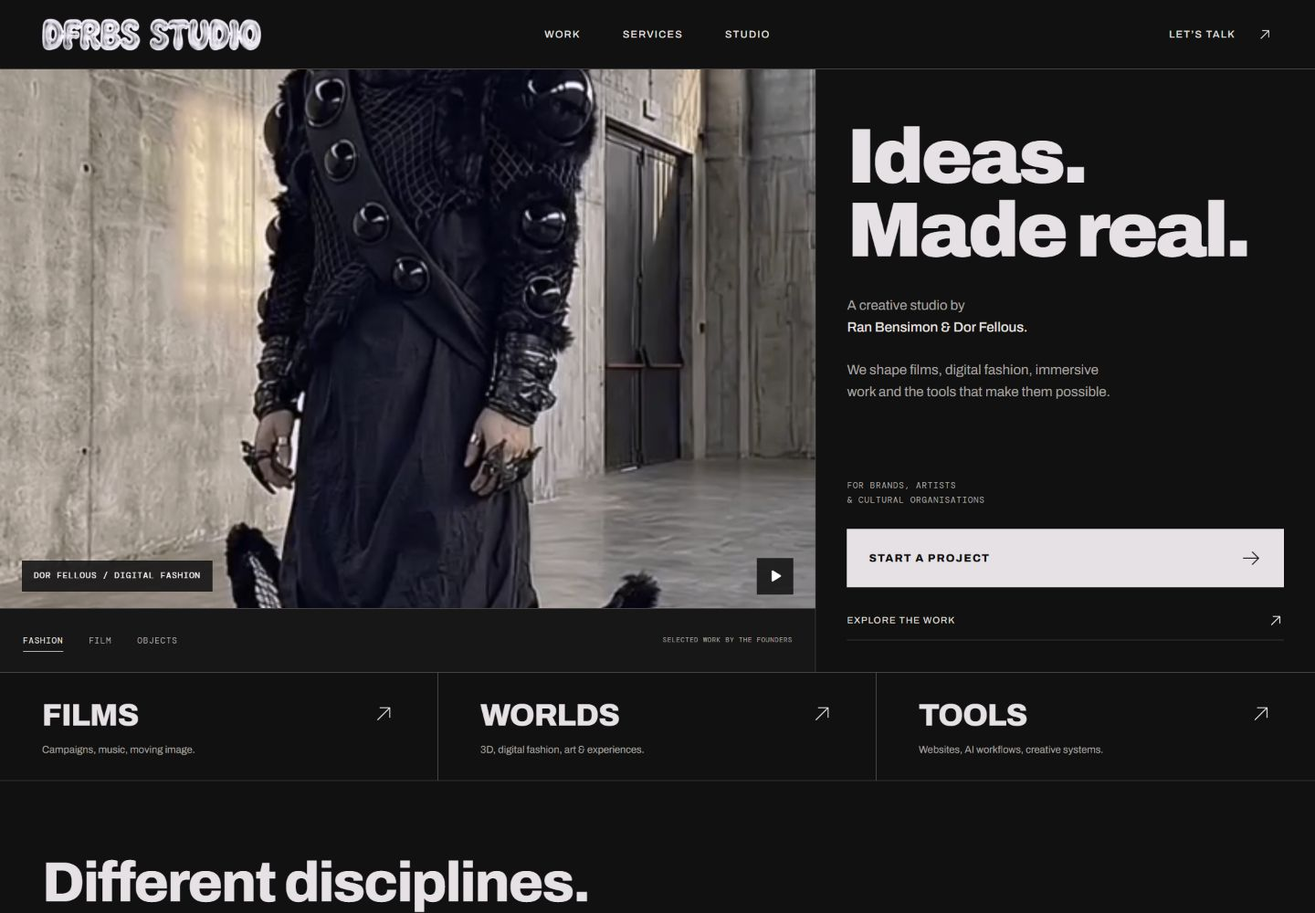
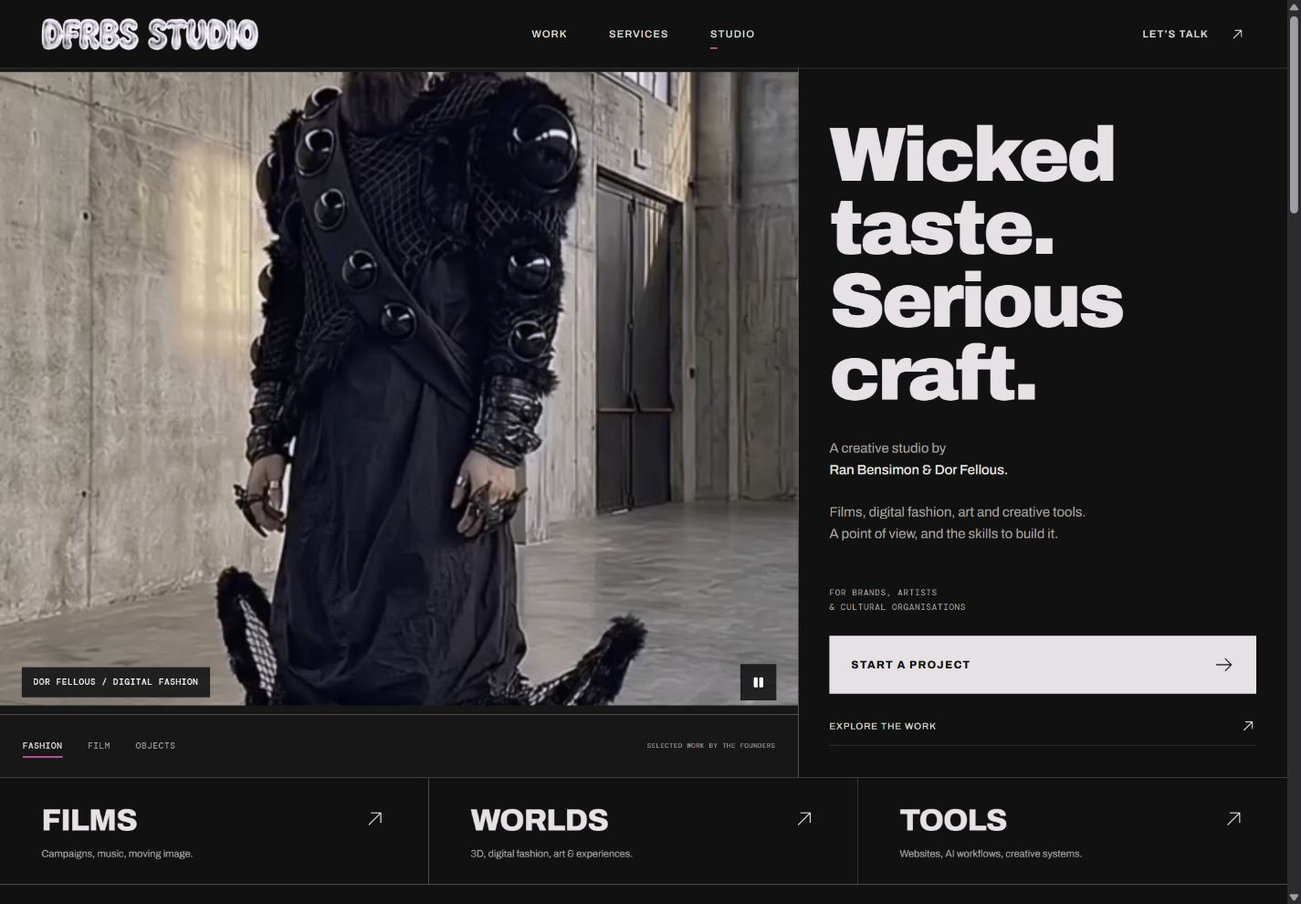
Give DFRBS Studio its black-room pink-fur spirit

diff --git a/src/StudioWebsite.jsx b/src/StudioWebsite.jsx
@@ -52,14 +52,14 @@ function Home({ onNavigate }) {
         <div className="studio-opening-tabs" role="group" aria-label="Explore our practice"><button type="button" aria-pressed={view === "fashion"} onClick={() => setView("fashion")}>FASHION</button><button type="button" aria-pressed={view === "film"} onClick={() => setView("film")}>FILM</button><button type="button" aria-pressed={view === "object"} onClick={() => setView("object")}>OBJECTS</button><span>SELECTED WORK BY THE FOUNDERS</span></div>
       </div>
       <div className="studio-opening-note">
-        <div className="studio-intro-copy"><h1 id="studio-main-title" tabIndex={-1}>Ideas.<br />Made real.</h1><p>A creative studio by<br /><strong>Ran Bensimon & Dor Fellous.</strong></p><p>We shape films, digital fashion, immersive work and the tools that make them possible.</p></div>
+        <div className="studio-intro-copy"><h1 id="studio-main-title" tabIndex={-1}>Wicked taste.<br />Serious craft.</h1><p>A creative studio by<br /><strong>Ran Bensimon & Dor Fellous.</strong></p><p>Films, digital fashion, art and creative tools. A point of view, and the skills to build it.</p></div>
         <div className="studio-intro-close"><span>FOR BRANDS, ARTISTS<br />& CULTURAL ORGANISATIONS</span><StudioLink to="contact" onNavigate={onNavigate} className="studio-primary-link">START A PROJECT <ArrowRight size={24} weight="light" /></StudioLink><StudioLink to="work" onNavigate={onNavigate} className="studio-text-link">EXPLORE THE WORK <ArrowUpRight size={18} /></StudioLink></div>
       </div>
     </section>
     <section className="studio-practice-index" aria-label="Explore studio services">{[{key:"film",title:"FILMS",description:"Campaigns, music, moving image."},{key:"3d",title:"WORLDS",description:"3D, digital fashion, art & experiences."},{key:"web",title:"TOOLS",description:"Websites, AI workflows, creative systems."}].map((entry) => <StudioLink to="services" options={{service:entry.key}} onNavigate={onNavigate} key={entry.key}><span>{entry.title}</span><p>{entry.description}</p><ArrowUpRight size={26} weight="light" /></StudioLink>)}</section>
-    <section className="studio-selected" aria-labelledby="selected-title"><div className="studio-section-heading"><h2 id="selected-title">Different disciplines.<br />One shared curiosity.</h2><StudioLink to="work" onNavigate={onNavigate} className="studio-text-link">ALL SELECTED WORK <ArrowUpRight size={20} /></StudioLink></div><p className="studio-credit-note">A selection from our individual practices, brought together as DFRBS Studio.</p><div className="studio-work-grid">{featured.map((project) => <WorkTile project={project} onNavigate={onNavigate} key={project.id} />)}</div></section>
+    <section className="studio-selected" aria-labelledby="selected-title"><div className="studio-section-heading"><h2 id="selected-title">A point of view.<br />The skills to back it.</h2><StudioLink to="work" onNavigate={onNavigate} className="studio-text-link">ALL SELECTED WORK <ArrowUpRight size={20} /></StudioLink></div><p className="studio-credit-note">A selection from our individual practices, brought together as DFRBS Studio.</p><div className="studio-work-grid">{featured.map((project) => <WorkTile project={project} onNavigate={onNavigate} key={project.id} />)}</div></section>
     <section className="studio-service-index" aria-labelledby="service-index-title"><div className="studio-section-heading"><h2 id="service-index-title">Bring us a brief.<br />Or the beginning of one.</h2><p>From a single visual to a complete production system, we shape the scope around what you need to make.</p></div><div>{SERVICES.map((service) => <StudioLink to="services" options={{service:service.key}} onNavigate={onNavigate} className="studio-service-row" key={service.key}><h3>{service.title}</h3><ArrowUpRight size={26} weight="light" /></StudioLink>)}</div></section>
-    <section className="studio-shared-practice"><h2>Artistic instincts.<br />Technical hands.</h2><div><p>Dor’s work moves through AI films, digital fashion and wearable art. Ran’s practice connects real-time 3D, generative AI and interactive systems.</p><p>At DFRBS Studio, we bring those approaches to the same table: develop the idea, find its visual language, build the means to produce it, and see it through.</p><StudioLink to="studio" onNavigate={onNavigate} className="studio-text-link">MEET THE STUDIO <ArrowUpRight size={20} /></StudioLink></div></section>
+    <section className="studio-shared-practice"><h2>High taste.<br />Low ceremony.</h2><div><p>Dor’s work moves through AI films, digital fashion and wearable art. Ran’s practice connects real-time 3D, generative AI and interactive systems.</p><p>We care about the image and everything it takes to make it: the direction, the pipeline, the edit, the code. We get specific, test the idea and see it through.</p><StudioLink to="studio" onNavigate={onNavigate} className="studio-text-link">MEET THE STUDIO <ArrowUpRight size={20} /></StudioLink></div></section>
     <ProjectClose onNavigate={onNavigate} />
   </>;
 }
@@ -84,12 +84,19 @@ function Project({ project, onNavigate, onOpenObject }) {
   return <><section className="studio-project-heading"><StudioLink to="work" onNavigate={onNavigate} className="studio-text-link">ALL WORK <ArrowUpRight size={18} /></StudioLink><h1 tabIndex={-1}>{project.title}</h1><div><span>{project.founder} / {project.category}</span><span>{project.year || "SELECTED WORK"}</span></div></section><section className={`studio-project-media ${project.type === "object" ? "is-object" : ""}`} aria-label="Project media">{playing && project.embedId ? <div className="studio-project-player"><iframe src={`https://www.youtube-nocookie.com/embed/${project.embedId}?autoplay=1`} title={project.title} allow="accelerometer; autoplay; encrypted-media; gyroscope; picture-in-picture" allowFullScreen /><button ref={closeRef} type="button" onClick={() => setPlaying(false)} aria-label="Close film"><X size={22} /></button></div> : project.video ? <video controls playsInline preload="metadata" poster={asset(project.image)} src={asset(project.video)} aria-label={project.title} /> : <><img src={asset(project.image)} alt={project.title} />{project.embedId && <button ref={watchRef} className="studio-project-watch" type="button" onClick={() => setPlaying(true)}><Play size={20} weight="fill" />WATCH FILM</button>}</>}</section><section className="studio-project-dossier"><div><h2>The work.</h2><p>{project.summary}</p>{project.note && <p className="studio-credit-note">{project.note}</p>}<a className="studio-text-link" href={project.source} target="_blank" rel="noopener noreferrer">ORIGINAL PROJECT & CREDITS <ArrowUpRight size={20} /></a>{project.watchUrl && <a className="studio-text-link" href={project.watchUrl} target="_blank" rel="noopener noreferrer">{project.type === "interactive" ? "OPEN EXPERIENCE" : "VIEW ORIGINAL WORK"}<ArrowUpRight size={20} /></a>}{project.playUrl && <a className="studio-text-link" href={project.playUrl} target="_blank" rel="noopener noreferrer">OPEN EXPERIENCE <ArrowUpRight size={20} /></a>}{project.repository && <a className="studio-text-link" href={project.repository} target="_blank" rel="noopener noreferrer">EXPLORE THE SOURCE <ArrowUpRight size={20} /></a>}{project.type === "object" && <a href={`${import.meta.env.BASE_URL}?object=001`} className="studio-text-link" onClick={(event) => { if (event.button === 0 && !event.ctrlKey && !event.metaKey && !event.shiftKey) { event.preventDefault(); onOpenObject("eyewear"); } }}>EXPLORE OBJECT 001 <ArrowRight size={20} /></a>}</div><dl><dt>PRACTICE</dt><dd>{project.founder}</dd><dt>ROLE</dt><dd>{project.role}</dd><dt>OUTPUT</dt><dd>{project.outputs.join(" · ")}</dd>{project.collaborators && <><dt>COLLABORATORS</dt><dd>{project.collaborators}</dd></>}{project.stack.length > 0 && <><dt>TOOLS & METHODS</dt><dd>{project.stack.join(" · ")}</dd></>}</dl></section><section className="studio-related-services"><h2>Have a related brief?</h2>{project.services.map((key) => { const service = SERVICES.find((entry) => entry.key === key); return service && <StudioLink to="contact" options={{service:key}} onNavigate={onNavigate} className="studio-text-link" key={key}>{service.title}<ArrowRight size={18} /></StudioLink>; })}</section></>;
 }
 
+function StudioAttitude() {
+  return <section className="studio-attitude" aria-labelledby="studio-attitude-title">
+    <figure className="studio-attitude-image"><img src={asset("studio/studio-daydream.webp")} alt="Imagined black and chrome studio with pink fur carpets and extravagant pink manicures" loading="lazy" /><figcaption>STUDIO DAYDREAM / CONCEPT IMAGE</figcaption></figure>
+    <div className="studio-attitude-copy"><h2 id="studio-attitude-title">Black room.<br />Pink fur.<br />Sharp minds.</h2><p>We half-joked about an all-black office, pink fur underfoot and impossibly long pink manicures. That is the mood: unapologetic taste, playful excess and a serious grasp of the tools.</p><p>We like making a statement. We care just as much about the decisions, the tests and the finishing that make it work.</p></div>
+  </section>;
+}
+
 function About({ onNavigate }) {
-  return <><section className="studio-page-intro"><h1 tabIndex={-1}>Two practices.<br />New possibilities.</h1><div><p>DFRBS Studio brings together Ran Bensimon and Dor Fellous to create across moving image, physical form and creative technology.</p><p>For brands, artists and cultural organisations with something to say — and the curiosity to find a different way to say it.</p></div></section><section className="studio-founders" aria-label="Meet the founders">{FOUNDERS.map((founder) => <article className="studio-founder" key={founder.name}><div className="studio-founder-image"><img src={asset(founder.name.startsWith("Ran") ? "studio/ran-bring-your-love.webp" : "studio/dor-fashion-07.jpeg")} alt={`Selected work by ${founder.name}`} loading="lazy" /></div><h2>{founder.name}</h2><p className="studio-founder-practice">{founder.role}</p><p>{founder.description}</p><a className="studio-text-link" href={founder.source} target="_blank" rel="noopener noreferrer">INDIVIDUAL PORTFOLIO <ArrowUpRight size={20} /></a></article>)}</section><section className="studio-how" aria-labelledby="how-title"><h2 id="how-title">The idea sets<br />the medium.</h2><div>{[{title:"Find the point.",body:"We start with the audience, the intention and the context. What needs to happen, and what should it feel like?"},{title:"Make the language.",body:"We develop visual directions and test the important unknowns early — through frames, prototypes, material studies or a technical pilot."},{title:"Build it properly.",body:"The agreed scope becomes a production plan. We bring direction, 3D, AI, coding and finishing together where the project needs them."},{title:"Leave something useful.",body:"We agree on the final formats and handover from the start: finished media, working code, documented workflows or assets your team can continue using."}].map((step) => <article key={step.title}><h3>{step.title}</h3><p>{step.body}</p></article>)}</div></section><section className="studio-principles"><p>GOOD IDEAS DESERVE<br />MORE THAN ONE WAY<br />TO EXIST.</p><span>FILM / FORM / CODE / CULTURE</span></section><ProjectClose onNavigate={onNavigate} /></>;
+  return <><section className="studio-page-intro"><h1 tabIndex={-1}>A studio<br />with nerve.</h1><div><p>DFRBS Studio brings together Ran Bensimon and Dor Fellous to create across moving image, physical form and creative technology.</p><p>We like an image with nerve, a form with presence and a tool that actually works. That’s where our practices meet.</p></div></section><StudioAttitude /><section className="studio-founders" aria-label="Meet the founders">{FOUNDERS.map((founder) => <article className="studio-founder" key={founder.name}><div className="studio-founder-image"><img src={asset(founder.name.startsWith("Ran") ? "studio/ran-bring-your-love.webp" : "studio/dor-fashion-07.jpeg")} alt={`Selected work by ${founder.name}`} loading="lazy" /></div><h2>{founder.name}</h2><p className="studio-founder-practice">{founder.role}</p><p>{founder.description}</p><a className="studio-text-link" href={founder.source} target="_blank" rel="noopener noreferrer">INDIVIDUAL PORTFOLIO <ArrowUpRight size={20} /></a></article>)}</section><section className="studio-how" aria-labelledby="how-title"><h2 id="how-title">The idea sets<br />the medium.</h2><div>{[{title:"Find the point.",body:"We start with the audience, the intention and the context. What needs to happen, and what should it feel like?"},{title:"Make the language.",body:"We develop visual directions and test the important unknowns early — through frames, prototypes, material studies or a technical pilot."},{title:"Build it properly.",body:"The agreed scope becomes a production plan. We bring direction, 3D, AI, coding and finishing together where the project needs them."},{title:"Leave something useful.",body:"We agree on the final formats and handover from the start: finished media, working code, documented workflows or assets your team can continue using."}].map((step) => <article key={step.title}><h3>{step.title}</h3><p>{step.body}</p></article>)}</div></section><section className="studio-principles"><p>LONG NAILS.<br />HIGH STANDARDS.</p><span>TASTE / TECHNIQUE / FOLLOW-THROUGH</span></section><ProjectClose onNavigate={onNavigate} /></>;
 }
 
 function ProjectClose({ onNavigate }) {
-  return <section className="studio-project-close"><h2>What are you<br />thinking about?</h2><div><p>A campaign, a world, a tool,<br />or something we haven’t named yet.</p><StudioLink to="contact" onNavigate={onNavigate} className="studio-primary-link">LET’S MAKE IT <ArrowRight size={26} weight="light" /></StudioLink></div></section>;
+  return <section className="studio-project-close"><h2>Bring the brief.<br />Bring the obsession.</h2><div><p>Tell us what you’re after.<br />We’ll be clear about what it takes.</p><StudioLink to="contact" onNavigate={onNavigate} className="studio-primary-link">LET’S MAKE IT <ArrowRight size={26} weight="light" /></StudioLink></div></section>;
 }
 
 export function StudioWebsite({ onOpenObject }) {

diff --git a/src/studioWebsite.css b/src/studioWebsite.css
@@ -1,12 +1,12 @@
-.studio-website { --studio-pad: clamp(20px,3.2vw,50px); background: #111; }
+.studio-website { --studio-pink: #ff5bbc; --studio-pad: clamp(20px,3.2vw,50px); background: #111; }
 .studio-site-header { min-height: 76px; display: grid; grid-template-columns: 1fr auto 1fr; align-items: center; gap: 50px; padding: 18px var(--studio-pad); border-bottom: 1px solid var(--rule); background: #111; position: sticky; top: 0; z-index: 25; }
 .studio-site-brand { width: 240px; }
 .studio-site-header nav { display: flex; align-items: center; gap: 46px; }
 .studio-site-header nav a, .studio-header-contact { font-size: 11px; font-weight: 500; letter-spacing: .12em; padding: 10px 0; position: relative; }
-.studio-site-header nav a::after { content: ""; position: absolute; left: 0; right: 0; bottom: 0; height: 1px; background: var(--paper); transform: scaleX(0); transform-origin: left; transition: transform .25s ease-out; }
+.studio-site-header nav a::after { content: ""; position: absolute; left: 0; right: 0; bottom: 0; height: 1px; background: var(--studio-pink); transform: scaleX(0); transform-origin: left; transition: transform .25s ease-out; }
 .studio-site-header nav a:hover::after, .studio-site-header nav a[aria-current="page"]::after { transform: scaleX(1); }
 .studio-header-contact { display: flex; gap: 24px; align-items: center; justify-self: end; }
-.studio-header-contact:hover { color: #fff; }
+.studio-header-contact:hover { color: var(--studio-pink); }
 .studio-opening { display: grid; grid-template-columns: 62% 38%; min-height: 660px; border-bottom: 1px solid var(--rule); }
 .studio-opening-plate { position: relative; min-width: 0; background: #171717; display: flex; flex-direction: column; }
 .studio-opening-media { position: relative; flex: 1; min-height: 590px; overflow: hidden; animation: plate-open .8s cubic-bezier(.16,1,.3,1); }
@@ -19,7 +19,7 @@
 .studio-opening-tabs { padding: 22px 25px; min-height: 69px; display: flex; gap: 28px; align-items: center; justify-content: start; border-top: 1px solid var(--rule); }
 .studio-opening-tabs button { padding: 7px 0; font: 9px var(--mono); letter-spacing: .1em; color: var(--muted); position: relative; }
 .studio-opening-tabs button[aria-pressed="true"] { color: var(--paper); }
-.studio-opening-tabs button[aria-pressed="true"]::after { content:""; position:absolute; bottom:0; left:0; width:100%; height:1px; background:var(--paper); }
+.studio-opening-tabs button[aria-pressed="true"]::after { content:""; position:absolute; bottom:0; left:0; width:100%; height:1px; background:var(--studio-pink); }
 .studio-opening-tabs > span { margin-left: auto; font: 7px/1.7 var(--mono); letter-spacing: .1em; color: var(--muted); text-align: right; }
 .studio-opening-note { border-left: 1px solid var(--rule); padding: 55px 34px 35px; display: flex; flex-direction: column; justify-content: space-between; gap: 45px; }
 .studio-intro-copy h1 { font-size: clamp(50px,5.9vw,95px); letter-spacing: -.04em; line-height: .95; font-weight: 900; }
@@ -118,7 +118,7 @@
 .studio-how p { font-size: 14px; line-height: 1.8; color: var(--muted); max-width: 57ch; }
 .studio-principles { padding: 90px var(--studio-pad); border-bottom: 1px solid var(--rule); }
 .studio-principles p { font-size: clamp(38px,6.5vw,96px); line-height: .99; letter-spacing: -.035em; font-weight: 900; }
-.studio-principles span { display: block; margin-top: 40px; font: 10px var(--mono); color: var(--muted); letter-spacing: .12em; }
+.studio-principles span { color: var(--studio-pink); display: block; margin-top: 40px; font: 10px var(--mono); letter-spacing: .12em; }
 .studio-site-footer { padding: 45px var(--studio-pad) 30px; }
 .studio-footer-main { display: flex; justify-content: space-between; align-items: center; gap: 25px; padding-bottom: 38px; }
 .studio-footer-main img { width: 280px; }
@@ -216,7 +216,7 @@
   .studio-how p { font-size: 13px; }
   .studio-principles { padding: 48px 20px; }
   .studio-principles p { font-size: 10.6vw; }
-  .studio-principles span { margin-top: 25px; font-size: 8px; }
+  .studio-principles span { color: var(--studio-pink); margin-top: 25px; font-size: 8px; }
   .studio-site-footer { padding: 35px 20px 25px; }
   .studio-footer-main { display: block; padding-bottom: 28px; }
   .studio-footer-main img { width: 210px; }
@@ -224,4 +224,23 @@
   .studio-footer-bottom { display: grid; gap: 25px; font-size: 7px; }
   .studio-footer-bottom nav { gap: 23px; }
   .studio-footer-bottom small { font-size: 7px; }
+}
+
+/* The founder's black-room / pink-fur spirit: precise pink marks, conceptual imagery. */
+.studio-attitude { display: grid; grid-template-columns: 56% 44%; border-bottom: 1px solid var(--rule); }
+.studio-attitude-image { position: relative; min-width: 0; display: flex; align-items: center; background: #151515; }
+.studio-attitude-image img { width: 100%; }
+.studio-attitude-image figcaption { position: absolute; left: 24px; bottom: 24px; padding: 10px 13px; background: #111e; color: var(--paper); font: 10px/1.5 var(--mono); letter-spacing: .08em; }
+.studio-attitude-copy { padding: 50px var(--studio-pad); border-left: 1px solid var(--rule); align-self: center; }
+.studio-attitude-copy h2 { font-size: clamp(38px,4.2vw,62px); font-weight: 800; letter-spacing: -.03em; line-height: 1.03; }
+.studio-attitude-copy p { margin-top: 26px; max-width: 42ch; font-size: 15px; line-height: 1.8; color: var(--muted); }
+.studio-attitude-copy p + p { margin-top: 18px; }
+.studio-website .studio-text-link:hover, .studio-website .studio-service-row:hover, .studio-site-footer a:hover { color: var(--studio-pink); }
+.studio-work-filters a[aria-current] { border-color: var(--studio-pink); }
+@media (max-width: 740px) {
+  .studio-attitude { grid-template-columns: 1fr; }
+  .studio-attitude-image figcaption { left: 20px; bottom: 16px; font-size: 8px; padding: 8px 10px; }
+  .studio-attitude-copy { padding: 35px 20px 48px; border-left: 0; border-top: 1px solid var(--rule); }
+  .studio-attitude-copy h2 { font-size: 12vw; }
+  .studio-attitude-copy p { font-size: 14px; }
 }

diff --git a/src/StudioPage.jsx b/src/StudioPage.jsx
@@ -36,11 +36,11 @@ export function StudioPage({ onChange }) {
         <figure className="studio-office-plate">
           <img
             src={asset("studio-office-v1.png")}
-            alt="DFRBS Studio team working in the black and hot-pink production studio"
+            alt="Imagined black and hot-pink studio with pink fur carpets and extravagant manicures"
             fetchPriority="high"
           />
           <figcaption>
-            <span>DFRBS STUDIO</span>
+            <span>STUDIO DAYDREAM / CONCEPT IMAGE</span>
             <span>000 / RIGHT NOW</span>
           </figcaption>
         </figure>
@@ -50,10 +50,10 @@ export function StudioPage({ onChange }) {
         <figure className="studio-boardroom-plate">
           <img
             src={asset("studio-boardroom-v1.png")}
-            alt="Alien-forward DFRBS Studio team in a creative production meeting"
+            alt="Imagined alien-forward creative studio meeting"
             loading="lazy"
           />
-          <figcaption>2026—2040 / RIGHT NOW</figcaption>
+          <figcaption>CONCEPT IMAGE / 2026—2040 / RIGHT NOW</figcaption>
         </figure>
         <div className="studio-boardroom-copy">
           <h2 id="studio-boardroom-title">A SHARP STUDIO CAPABLE OF EVERYTHING.</h2>

diff --git a/index.html b/index.html
@@ -10,8 +10,8 @@
   <body>
     <!--
     THESIS: Authored images and working creative systems share one studio; projects prove the offer.
-    OWN-WORLD: Charcoal, pearl, chrome wordmark, Archivo, flat rectangular actions and drawer seams. Genuine founder work supplies the colour.
-    STORY: Meet Ran and Dor, explore individually credited work, choose a service, prepare a project brief.
+    OWN-WORLD: Charcoal, pearl, chrome wordmark, Archivo, precise pink accents, flat rectangular actions and drawer seams. Genuine founder work supplies the colour; the labelled black-room/pink-fur daydream expresses the studio attitude.
+    STORY: Wicked taste and serious craft. Meet Ran and Dor, explore individually credited work, choose a service, prepare a project brief.
     FIRST VIEWPORT: Desktop moving-image plate occupies 62%; studio introduction and project action occupy 38%. Mobile leads with identity and action, followed by the media plate.
     FORM: User-pinned Open drawer composition 2, expanded into a joint studio website; approval 2026-10-05, inherited-world key dfrbs-open-drawer-2.
     FINISH: unreviewed and undocumented is unfinished; this build ends with the finish review, the verdict, and DESIGN.md

diff --git a/DESIGN.md b/DESIGN.md
@@ -7,6 +7,7 @@ colors:
   muted: "#a7a59f"
   seam: "#53534f"
   heat: "#fa7a25"
+  studio-pink: "#ff5bbc"
   white: "#fff"
   inspection: "#141414"
   drawer: "#151515"
@@ -166,16 +167,17 @@ components:
 
 **Creative North Star: "The open studio drawer"**
 
-Authored images and working creative systems share one studio. Charcoal, pearl, the supplied chrome wordmark and strong Archivo type create a restrained frame for the actual work of Ran Bensimon and Dor Fellous. Colour comes primarily from the work itself; flat artifact plates, fine drawer seams and rectangular actions carry the interface.
+Authored images and working creative systems share one studio. Charcoal, pearl, the supplied chrome wordmark and strong Archivo type create a restrained frame for the actual work of Ran Bensimon and Dor Fellous. Colour comes primarily from the work itself; flat artifact plates, fine drawer seams and rectangular actions carry the interface. The studio has nerve: confident taste, queer/fashion wit and playful excess backed by serious craft. Small pink marks express that attitude within the charcoal/chrome frame.
 
-This is the built system after the approved Open drawer composition 2 reinvention and its expansion into a complete joint creative studio. It replaces the earlier campaign refinement. The homepage introduces the practice, work pages foreground individually credited artifacts, services disclose their scope in drawers, and the project brief uses a quieter form layout. Shared materials and controls connect those surfaces; their composition follows their purpose.
+This is the built system after the approved Open drawer composition 2 reinvention and its expansion into a complete joint creative studio. It replaces the earlier campaign refinement. The homepage introduces the practice, work pages foreground individually credited artifacts, services disclose their scope in drawers, and the project brief uses a quieter form layout. Shared materials and controls connect those surfaces; their composition follows their purpose. The user's imagined black office, pink fur and extravagant long pink manicures supply the cultural spirit. “Wicked taste. Serious craft.” introduces the practice; “Long nails. High standards.” states its conviction. The office appears as a labelled daydream concept, with no claim about current premises or staff.
 
-The source of truth is [atelier.css](src/atelier.css), [studioWebsite.css](src/studioWebsite.css), [services.css](src/services.css), [inquiry.css](src/inquiry.css), [studio.css](src/studio.css) and the matching JSX. [PRODUCT.md](PRODUCT.md), the body contract in [index.html](index.html) and the [complete-studio specification](docs/superpowers/specs/2026-10-05-complete-studio.md) establish the approved scope. The object authority is [Open drawer composition 2](.impeccable/mocks/reinvention-comp-2.png). Tokens above record implemented values; the sidecar carries extensions and preview snippets. Its generated tonal ramps are preview metadata, not additional implemented palette steps.
+The source of truth is [atelier.css](src/atelier.css), [studioWebsite.css](src/studioWebsite.css), [services.css](src/services.css), [inquiry.css](src/inquiry.css), [studio.css](src/studio.css) and the matching JSX. [PRODUCT.md](PRODUCT.md), the body contract in [index.html](index.html) and the [complete-studio specification](docs/superpowers/specs/2026-10-05-complete-studio.md) establish the approved scope; the [studio-spirit clarification](docs/superpowers/specs/2026-10-05-studio-spirit.md) records the later voice and accent refinement. The object authority is [Open drawer composition 2](.impeccable/mocks/reinvention-comp-2.png). Tokens above record implemented values; the sidecar carries extensions and preview snippets. Its generated tonal ramps are preview metadata, not additional implemented palette steps.
 
 **Key Characteristics:**
 
 - Authored founder imagery and films lead.
-- Charcoal, pearl and chrome form the shared material language.
+- Charcoal, pearl and chrome form the shared material language, with small pink active/hover marks.
+- Confident taste and playful excess are backed by specific decisions, tests and finishing.
 - Archivo provides expressive headings and readable prose; DM Mono handles compact indexes and technical captions.
 - Artifact plates, ruled rows and native drawers replace rounded cards.
 - Rectangular pale actions remain easy to find beside large images.
@@ -183,12 +185,16 @@ The source of truth is [atelier.css](src/atelier.css), [studioWebsite.css](src/s
 
 ## Colors
 
-The palette is a warm neutral range with a small HEAT accent. The frontmatter preserves the CSS source notation.
+The palette is a warm neutral range with small Studio Pink marks in the wider site and the established HEAT accent in the object archive. The frontmatter preserves the CSS source notation.
 
 ### Primary
 
-- **Pearl:** Primary reading colour, selected navigation marks and pale filled actions. On filled actions, Charcoal becomes the text colour.
+- **Pearl:** Primary reading colour, selected object-view marks and pale filled actions. On filled actions, Charcoal becomes the text colour.
 - **HEAT:** The warm orange accent used on selected object thumbnails and names, plus the object detail action on hover. It stays local to those states rather than becoming a general studio call-to-action colour.
+
+### Secondary
+
+- **Studio Pink:** The scoped `--studio-pink` accent on wider-studio navigation and preview-selector underlines, active work-filter rules, contact/text/service/footer link hover, and the manifesto caption. It does not recolour object controls or filled primary actions.
 
 ### Neutral
 
@@ -205,6 +211,8 @@ The palette is a warm neutral range with a small HEAT accent. The frontmatter pr
 - **Inquiry Error:** Inline validation messages, error summary and invalid field underline. Errors retain text and semantic state as well as colour.
 
 **The Restrained Heat Rule.** HEAT belongs to product imagery and small object-selection states. Keep broad interface backgrounds neutral.
+
+**The Precise Pink Rule.** Use Studio Pink for small studio active and hover marks. Keep the interface's broad surfaces charcoal and pearl; pink fur belongs to the labelled concept image.
 
 ## Typography
 
@@ -235,7 +243,7 @@ The system uses full-width sections and asymmetrical grids separated by one-pixe
 | Work archive | Page introduction, horizontal underlined filters, then a two-column artifact grid with separate image and credit metadata. |
 | Project dossier | Wide contained media, then a 1.25fr / 1fr explanation-and-credit grid. Embedded film players use 16:9. |
 | Services | A 1.35fr / 1fr introduction, six numbered native disclosure drawers, and expanded scope/delivery columns at 1.45fr / 1fr. |
-| Joint studio | Two founder work-image/profile columns, followed by a 1fr / 1.15fr process section and a large typographic statement. These are work images, not founder portraits. |
+| Joint studio | A 56% / 44% concept-image/attitude plate, then two founder work-image/profile columns, a 1fr / 1.15fr process section and a large typographic statement. These are work images, not founder portraits. |
 | Project brief | A 1.25fr / .75fr introduction, then a narrow supporting aside beside a broad form at .7fr / 1.6fr. Paired fields use two columns; the reviewed brief follows the form. |
 | Objects 001 / 002 | A 67.2% inspection plate and 32.8% order slip, minimum height 690px. Cabinet rows provide onward navigation; campaign chapters use their own split grids. |
 | Archived studio 000 | Statement/office plate at 1.6fr / 1fr; boardroom/copy at 1.85fr / 1fr. It retains its office and boardroom imagery within the current material world. |
@@ -249,6 +257,7 @@ The wide studio header is sticky, minimum height 76px, with brand, navigation an
 | 1080px and below | Service drawer number/title/copy columns tighten and expanded content indents reduce. |
 | 1050px and below | Inquiry and archived studio layouts tighten independently. The inquiry submit row becomes vertical. |
 | 760px and below | Headers become two rows with visible navigation. Homepage identity/action comes before its media plate. Work and founder grids, dossiers, service content and brief fields become single-column. Inquiry aside comes before the form. Object inspection comes before ordering; the order photograph follows the controls. Gutters are predominantly 20px. |
+| 740px and below | Studio daydream plate stacks; its copy loses the left seam and gains a top seam. |
 | 360px and below | Object header and cabinet gutters become 14px and archive labels tighten. |
 
 Mobile archive filters scroll horizontally; their work count hides. Homepage metadata in the selector rail hides. Object cabinet imagery and notes hide while the numbered destination remains. Object inspection height uses `clamp(360px, 100vw, 580px)`; homepage fashion media has a taller mobile plate than its film/object alternatives. These are surface-specific behaviours, not one shared hero preset.
@@ -279,19 +288,25 @@ Pale rectangular actions anchor the next step without competing with authored im
 - **Object purchase:** Full-width pale action; confirmation changes to Added and a check icon, with a polite live status. Mobile minimum height is 56px.
 - **Service action:** Compact DM Mono copy, a 54px minimum height and a wide arrow gap. The matching secondary action is transparent with a bottom seam.
 - **Inquiry action:** Readable mixed-case Archivo, 58px minimum height, 17px / 22px padding. On mobile it spans the form and uses 56px minimum height.
-- **Text links:** Transparent, square, underlined by a straight seam, with small directional icons. Hover brightens the rule or text.
+- **Text links:** Transparent, square, underlined by a straight seam, with small directional icons. Wider-studio text links hover in Studio Pink while their rule brightens to Pearl; object and service-page links retain their own established states.
 
 ### Navigation and filters
 
-The supplied wordmark anchors the sticky header. Wider studio navigation uses Archivo at the navigation token; numbered object navigation uses mono. Active routes and hover reveal a one-pixel underline. Both headers keep their navigation visible on a second mobile row.
+The supplied wordmark anchors the sticky header. Wider studio navigation uses Archivo at the navigation token; numbered object navigation uses mono. Active routes and hover reveal a one-pixel Studio Pink underline in the wider site; object navigation retains Pearl. Both headers keep their navigation visible on a second mobile row.
 
-Work filters are text links with an active bottom rule and `aria-current`. They scroll horizontally on mobile. They are not filled chips. Navigation preserves query links and browser history; route changes move focus to the page heading without adding a visible heading outline.
+Work filters are text links with an active Studio Pink bottom rule and `aria-current`. They scroll horizontally on mobile. They are not filled chips. Navigation preserves query links and browser history; route changes move focus to the page heading without adding a visible heading outline.
 
 ### Artifact plates and work tiles
 
 Work tiles have an image plate, a square bottom-right arrow tab and a separate title/individual-credit row. There is no enclosing card border, rounding or shadow. Desktop image aspect ratio is 1.45, mobile 1.2. Editorial images cover; object images contain. Hover image scale is 1.035, so the artifact remains the dominant content.
 
 Project media uses contained fit, bounded by its actual dimensions rather than forcing every work into an archive crop. Founder profile images are selected work with descriptive alt text and individual portfolio links.
+
+### Studio daydream and manifesto
+
+The StudioAttitude plate pairs the supplied [studio daydream image](public/assets/studio/studio-daydream.webp) with “Black room. Pink fur. Sharp minds.” Its caption explicitly reads “STUDIO DAYDREAM / CONCEPT IMAGE”. The image follows its natural proportions at full column width. A dark square caption overlay (`#111e`) uses DM Mono; copy sits beyond a straight vertical seam, with 15px / 1.8 body text capped at 42ch.
+
+This plate communicates imagined black-office / pink-fur / long-manicure spirit, not current premises, staff or a dress code. Mobile stacks the plate at 740px, moves the seam above the copy and uses 14px body text. The closing Archivo manifesto reads “LONG NAILS. HIGH STANDARDS.” with compact mono support. Its support caption uses Studio Pink on desktop and mobile.
 
 ### Service drawers
 
@@ -332,6 +347,7 @@ A global reduced-motion rule removes all animations/transitions and uses immedia
 - **Do** reuse the supplied wordmark, authored founder work, campaign films and accurate object assets.
 - **Do** use charcoal/pearl surfaces, square actions and straight seams as the shared interface language.
 - **Do** retain the separate individual-credit metadata beside portfolio imagery.
+- **Do** label the studio daydream as a concept image and keep taste-and-craft voice distinct from plain navigation, service scope and form instructions.
 - **Do** adapt layout to the surface: image archive, credited dossier, service drawer or reviewable brief.
 - **Do** preserve contained artifact/project-media fitting and deliberate editorial cropping.
 - **Do** retain native controls, visible focus, keyboard selection, focus-managed dialogs and reduced-motion behaviour.
@@ -339,8 +355,9 @@ A global reduced-motion rule removes all animations/transitions and uses immedia
 ### Don't:
 
 - **Don't** bring back the discarded Bebas Neue / IBM Plex Mono campaign identity.
-- **Don't** introduce rounded cards, pill filters, broad HEAT backgrounds or decorative interface gradients.
+- **Don't** introduce rounded cards, pill filters, broad HEAT or Studio Pink backgrounds, or decorative interface gradients.
 - **Don't** turn the homepage's 62% / 38% split into a mandatory layout for every page.
 - **Don't** stretch, redraw or crop away defining object anatomy.
 - **Don't** substitute stock imagery or describe selected-work images as founder portraits.
+- **Don't** describe the studio daydream as actual premises, staff or a dress code.
 - **Don't** present local brief preparation or the object bag as completed server submission, payment or inventory.

diff --git a/AGENTS.md b/AGENTS.md
@@ -10,6 +10,9 @@ Build app UI in `src/`. Keep `.openai/hosting.json`, `worker/index.js`, `scripts
 
 ## DFRBS prototype decisions
 
+- The collaborator clarified the studio's spirit: an imagined all-black office, pink fur carpets, black clothing and extravagant pink manicures; “confident bitches” who know their craft and do not mess around. Treat this as attitude and creative culture, never a claim about current premises, staff or a dress code. Preserve wit, queer/fashion sensibility, strong taste and technical competence. Let project evidence earn the confidence, and keep client-facing actions and form messages clear and welcoming.
+- The wider studio may use precise hot-pink accents alongside black and chrome, authorised by this brand clarification. Pink appears in small active/hover marks and conceptual studio imagery. It does not replace the HEAT product palette or become a large page background. The black/pink concept image is explicitly labelled “Studio daydream / concept image.”
+
 - On October 5, 2026, the collaborator expanded the objective from an object campaign to a complete creative studio website for Ran Bensimon and Dor Fellous. The confirmed name is **DFRBS Studio** and the primary audience is **brands, artists and cultural organisations**. This is the current scope.
 - The bare root is now the full studio homepage. Persistent navigation leads to Work, Services, Studio and a project inquiry. Earlier objects remain shareable at `?object=000`, `001` and `002`, reachable through the Object Archive footer link and the eyewear project. This supersedes the former requirement that the bare root be an object cabinet.
 - Present six proposed offers: films and campaigns, 3D and digital fashion, websites and creative tools, AI production workflows, art and experiences, workshops and team training. Explain client outcomes before tool names. “Vibe coding” is described to clients as websites, interactive experiences and creative tools.

diff --git a/docs/MEDIA-SOURCES.md b/docs/MEDIA-SOURCES.md
@@ -18,7 +18,9 @@ Portfolio images and films are from the two founders’ public portfolios, as su
 
 The Dor fashion film was encoded for web delivery with H.264 CRF 22, AAC 128k and fast-start metadata. The original 512 × 736 frame, aspect ratio, 14.633-second duration and audio were retained. The shipped file is approximately 2.77 MB, down from 7.70 MB.
 
-The object campaign, transparent eyewear images, lighter media, wordmark and archive studio images are preserved supplied repository assets. Archive office/boardroom images are conceptual studio imagery; the joint studio’s About page uses actual founder work rather than claiming these depict current premises.
+The object campaign, transparent eyewear images, lighter media, wordmark and archive studio images are preserved supplied repository assets. Archive office/boardroom images are conceptual studio imagery. Both the joint About page and archive label these as concepts, with alt text describing imagined scenes rather than current premises or employees.
+
+`public/assets/studio/studio-daydream.webp` is a quality-86 WebP conversion of the supplied `public/assets/studio-office-v1.png`, preserving the complete 1536 × 1024 image without resizing or cropping. Its visible “STUDIO DAYDREAM / CONCEPT IMAGE” caption identifies the founders’ black-office, pink-fur and long-manicure idea as brand spirit.
 
 `public/assets/atelier-graphite.webp` is generated non-semantic material: a fine dark table texture, with no objects, words or marks. Generation provenance and prompt are recorded in `.impeccable/asset-manifest.json` and the asset’s JSON sidecar. Its native 1448 × 1086 output was preserved, then encoded as quality-84 WebP (~108 KB). Semantic text, numerals, controls and rules are rendered in HTML/CSS.
 

diff --git a/docs/VERIFICATION.md b/docs/VERIFICATION.md
@@ -37,3 +37,9 @@ The first home/mobile-002 captures reflected browser scroll anchoring or stale r
 ## Delivery boundary
 
 The source, preview, design system, strategy and draft pull request are reviewable. No public deployment or merge was performed. Inquiry uses an email draft; the product bag has no checkout backend. These are clearly disclosed in the interface and README.
+
+## Studio spirit refinement
+
+The collaborator’s black-room, pink-fur and long-manicure daydream is expressed through “Wicked taste. Serious craft.”, precise pink accents, a labelled concept plate and “Long nails. High standards.” The original studio archive also identifies its office and boardroom images as imagined concepts. Service scopes, project credits and functional boundaries are retained.
+
+The refreshed production build passed. The hosting tests passed 4/4 before the final caption-colour and archive-label corrections; those corrections do not alter hosting behavior. A batched desktop/mobile inspection and one confirmation round checked the home and About layouts at 1440 × 1000 and 390 × 844. Both sizes had no horizontal overflow; the daydream image loaded at its original 1536px width, its concept caption was visible, and the closing caption computed to Studio Pink at both sizes. The independent scoped finish review found no material copy, layout or concept-truth findings. Design documentation, media provenance, strategy and preview captures reflect the clarification.

diff --git a/docs/superpowers/specs/2026-10-05-studio-spirit.md b/docs/superpowers/specs/2026-10-05-studio-spirit.md
@@ -1,0 +1,9 @@
+# Studio spirit — brand clarification
+
+The user supplied the missing cultural attitude: an imagined black office, pink fur underfoot and extravagant pink manicures, as the spirit of “confident bitches” who know their craft. This is a refinement of the approved wider studio, not a new visual-world selection.
+
+Keep the charcoal/chrome atelier, genuine founder work and six clear offers. Give the homepage a direct taste-and-craft voice; express the office daydream on the Studio page as a labelled concept, with no current premises/staff claims. Carry confidence through authored principles and concrete production language; keep navigation, project credits, service scopes, form labels and error handling plain and useful.
+
+The homepage reads “Wicked taste. Serious craft.” The Studio page introduces “A studio with nerve.” A concept plate pairs the supplied black/pink studio image with “Black room. Pink fur. Sharp minds.” and the origin story. The closing manifesto reads “Long nails. High standards.” Pink is a precise active/hover mark alongside black/chrome, not a broad background. Original object geometry, colours, prices and interactions remain.
+
+Verify the changed Home and Studio at desktop/mobile, including the longer headline, concept label and section fit. Build and required hosting checks must pass. Record the actual changes in the design system and strategy, update the same draft and regenerate the handover package.

diff --git a/docs/STUDIO-STRATEGY.md b/docs/STUDIO-STRATEGY.md
@@ -8,6 +8,10 @@ Recommended position: **a creative studio combining artistic direction and creat
 
 Use **Websites & creative tools** as the client-facing label. “Vibe coding” can explain a method when useful, but does not describe the user task, production scope or handover.
 
+## Brand attitude
+
+**“Wicked taste. Serious craft.”** sets the tone: a strong point of view, sly queer/fashion wit and technical competence. The collaborator’s imagined all-black office, pink fur, black outfits and long pink manicures express the studio’s spirit; they are not claims about real premises, staff or a dress code. “Confident bitches” means assured taste and command of the craft, translated for clients into concrete scope, clear decisions and follow-through. **“A studio with nerve.”**, **“Black room. Pink fur. Sharp minds.”** and **“Long nails. High standards.”** carry that attitude. **“Bring the brief. Bring the obsession.”** makes the invitation generous. Keep service and project facts precise beneath the wit.
+
 ## Observed founder evidence
 
 - **Ran Bensimon:** real-time 3D, generative AI, film and performance visuals, workflow engineering, browser projects and teaching. [Portfolio](https://ranbensimon.com/), [Neon Dojo](https://ranbensimon.com/neon-dojo-fight/), [tutorials and lectures](https://ranbensimon.com/tutorials-and-lectures/).

diff --git a/PRODUCT.md b/PRODUCT.md
@@ -24,7 +24,7 @@ A complete creative studio website for the proposed shared practice of Ran Bensi
 
 ## Brand Commitments
 
-The user confirmed DFRBS Studio and brands, artists and cultural organisations. They rejected campaign polish and approved Open drawer composition 2 as a reinvention, then broadened the scope to the shared studio. Inherit its charcoal/chrome world, flat plate and drawer grammar, strong Archivo typography and supplied wordmark across the wider website. HEAT stays a product and small active accent; avoid large coloured backgrounds.
+The user confirmed DFRBS Studio and brands, artists and cultural organisations. They rejected campaign polish and approved Open drawer composition 2 as a reinvention, then broadened the scope to the shared studio. Inherit its charcoal/chrome world, flat plate and drawer grammar, strong Archivo typography and supplied wordmark across the wider website. HEAT stays a product and small active accent; avoid large coloured backgrounds. The collaborator’s black-office / pink-fur / long-manicure daydream defines a confident, witty, queer/fashion sensibility backed by serious craft. The wider site uses small pink marks and a labelled concept image to convey that spirit. It makes no literal office, staff or dress-code claims.
 
 ## Evidence on Hand
 
